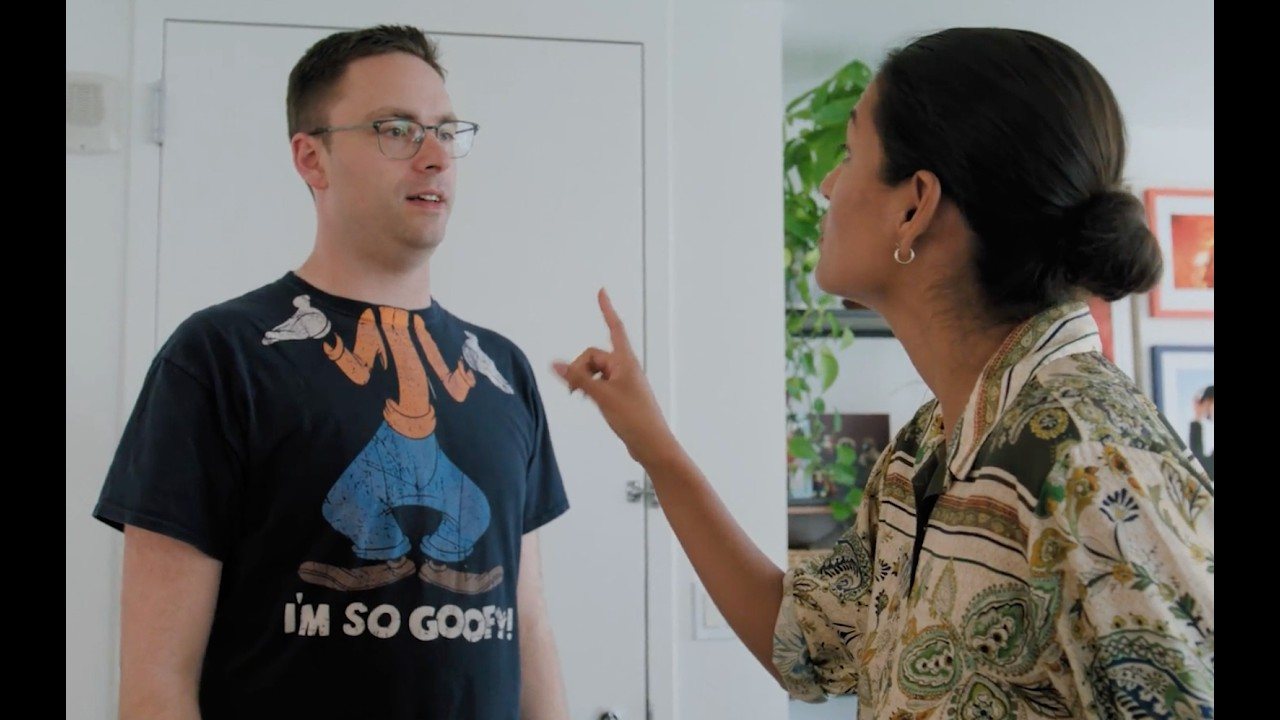
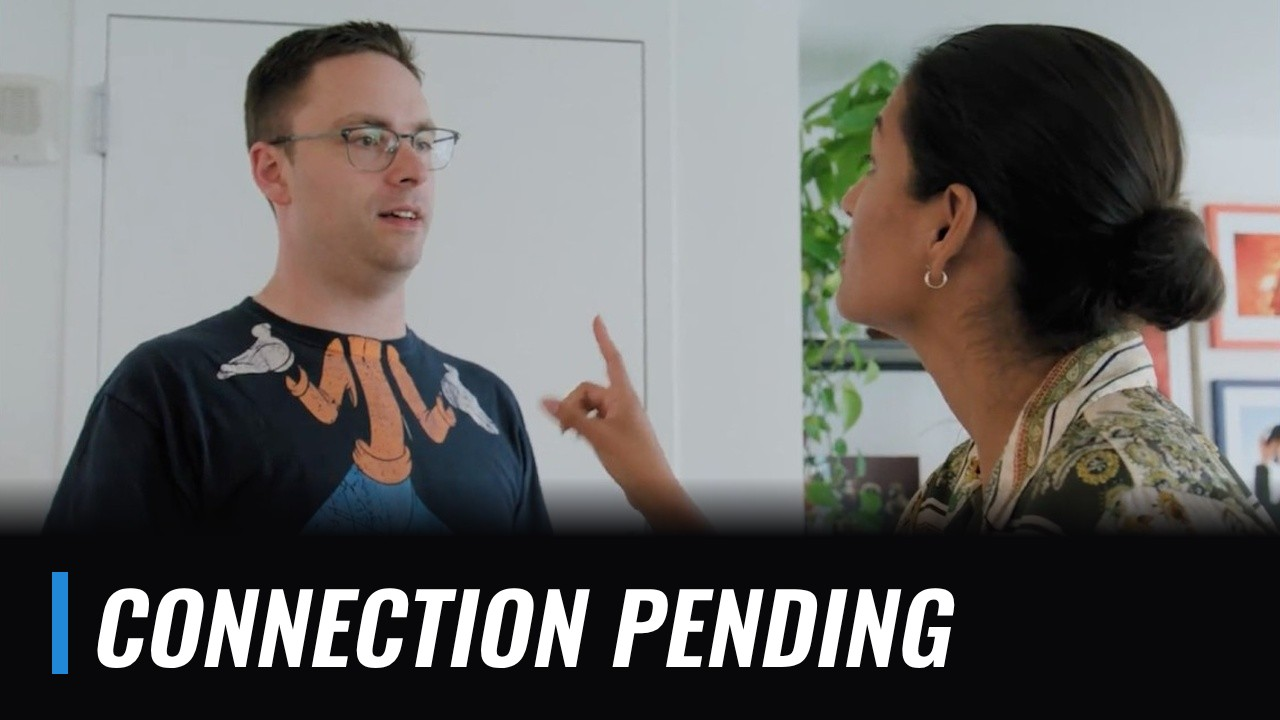
Connection Pending thumbnail; Dragon Ads title band moved to the top
Crop the pillarbox bars off the Connection Pending frame and set its title
in a dark band below; put the Dragon Ads band on top with the title in it.

Claude-Session: https://claude.ai/code/session_014y4GfGcAkkGKmsdvDjjrz4

diff --git a/index.html b/index.html
@@ -99,7 +99,7 @@
             <h3 class="card-name">Dragon Ads</h3>
           </div>
         </div>
-        <div class="card" data-yt="fwvBdCVWhys" data-pillarbox data-title="Connection Pending" role="button" tabindex="0" aria-label="Play Connection Pending">
+        <div class="card card--titled" data-yt="fwvBdCVWhys" data-title="Connection Pending" role="button" tabindex="0" aria-label="Play Connection Pending">
           <div class="card-art">
             <img src="/assets/images/connection-pending-thumb.jpg" alt="" loading="lazy">
             <span class="card-play" aria-hidden="true"></span>
